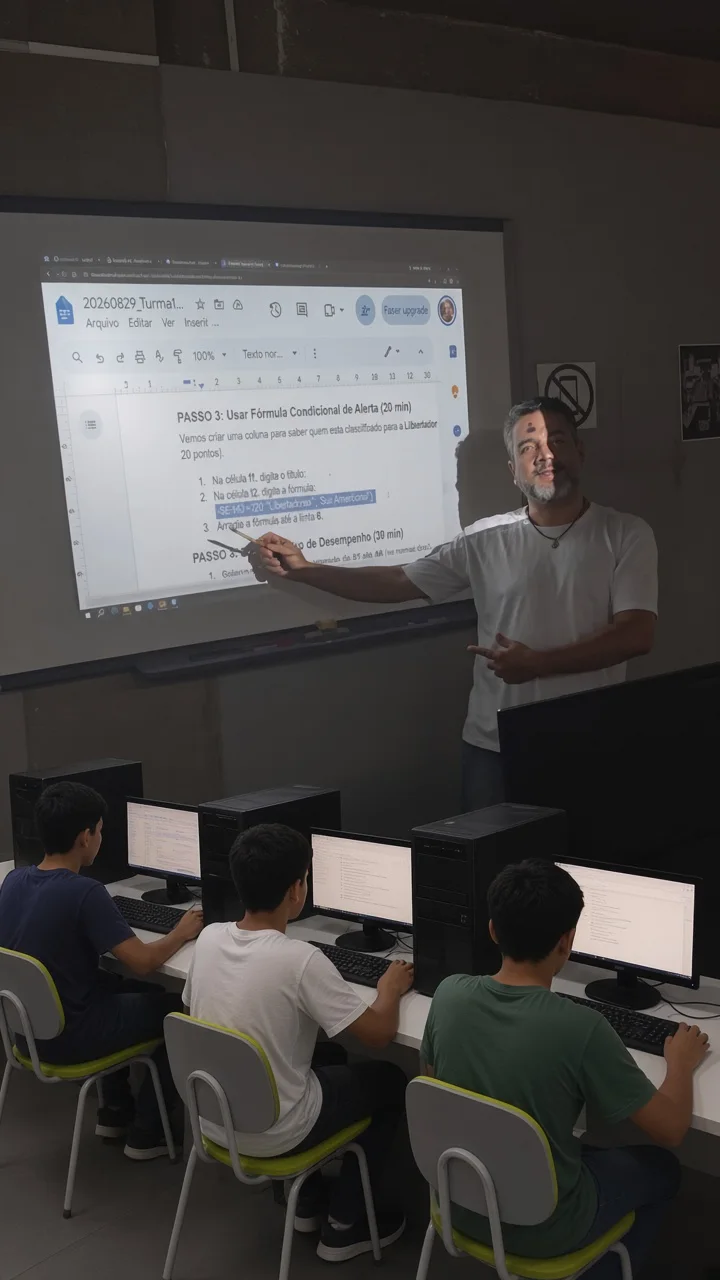
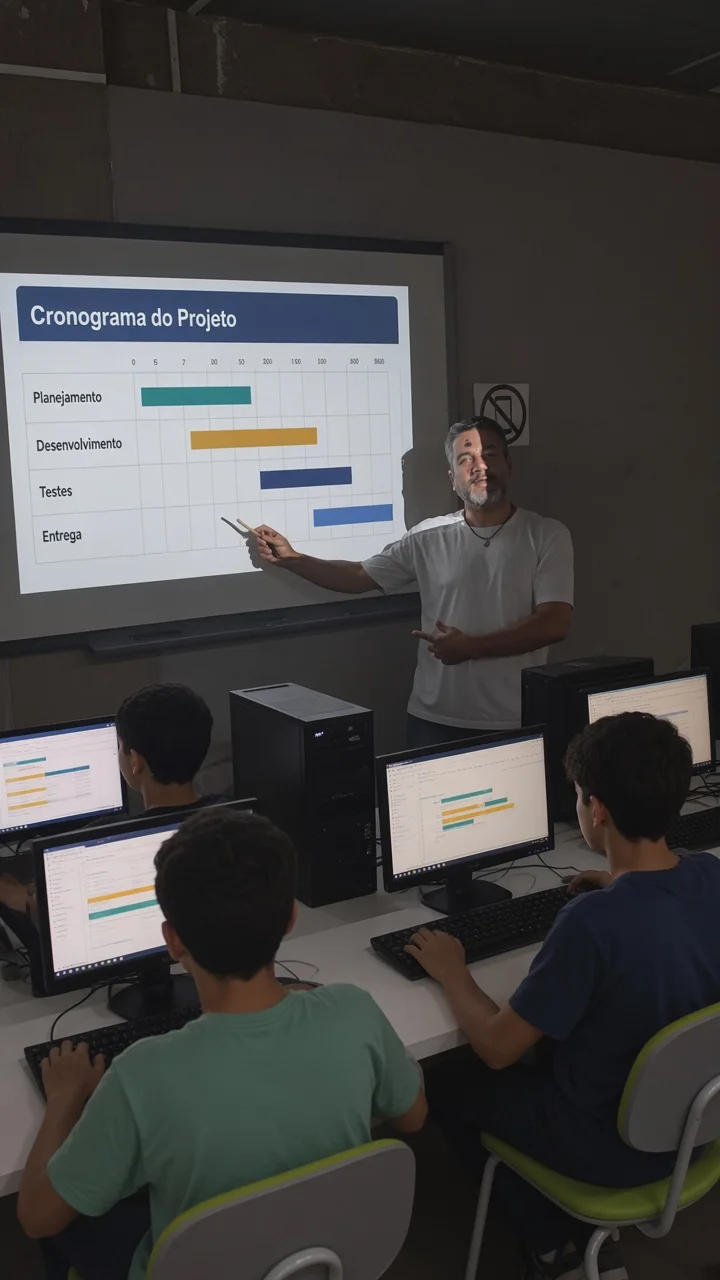
Mostra Gantt na lousa e alunos usando os PCs na foto da aula.

diff --git a/index.html b/index.html
@@ -190,9 +190,9 @@
                 </div>
                 <div class="hero-visual">
                     <picture>
-                        <source srcset="assets/FotoSite.webp?v=aula5" type="image/webp">
+                        <source srcset="assets/FotoSite.webp?v=aula6" type="image/webp">
                         <img
-                            src="assets/FotoSite.jpg?v=aula5"
+                            src="assets/FotoSite.jpg?v=aula6"
                             alt="Paulo Teodoro Pinto Júnior (Papijunior) — aula de gestão de projetos com cronograma Gantt no PapiLAB"
                             width="720"
                             height="1280"

diff --git a/en/index.html b/en/index.html
@@ -187,9 +187,9 @@
                 </div>
                 <div class="hero-visual">
                     <picture>
-                        <source srcset="assets/FotoSite.webp?v=aula5" type="image/webp">
+                        <source srcset="assets/FotoSite.webp?v=aula6" type="image/webp">
                         <img
-                            src="assets/FotoSite.jpg?v=aula5"
+                            src="assets/FotoSite.jpg?v=aula6"
                             alt="Paulo Teodoro Pinto Júnior (papijunior) — teaching project management with a Gantt chart at PapiLAB"
                             width="720"
                             height="1280"
